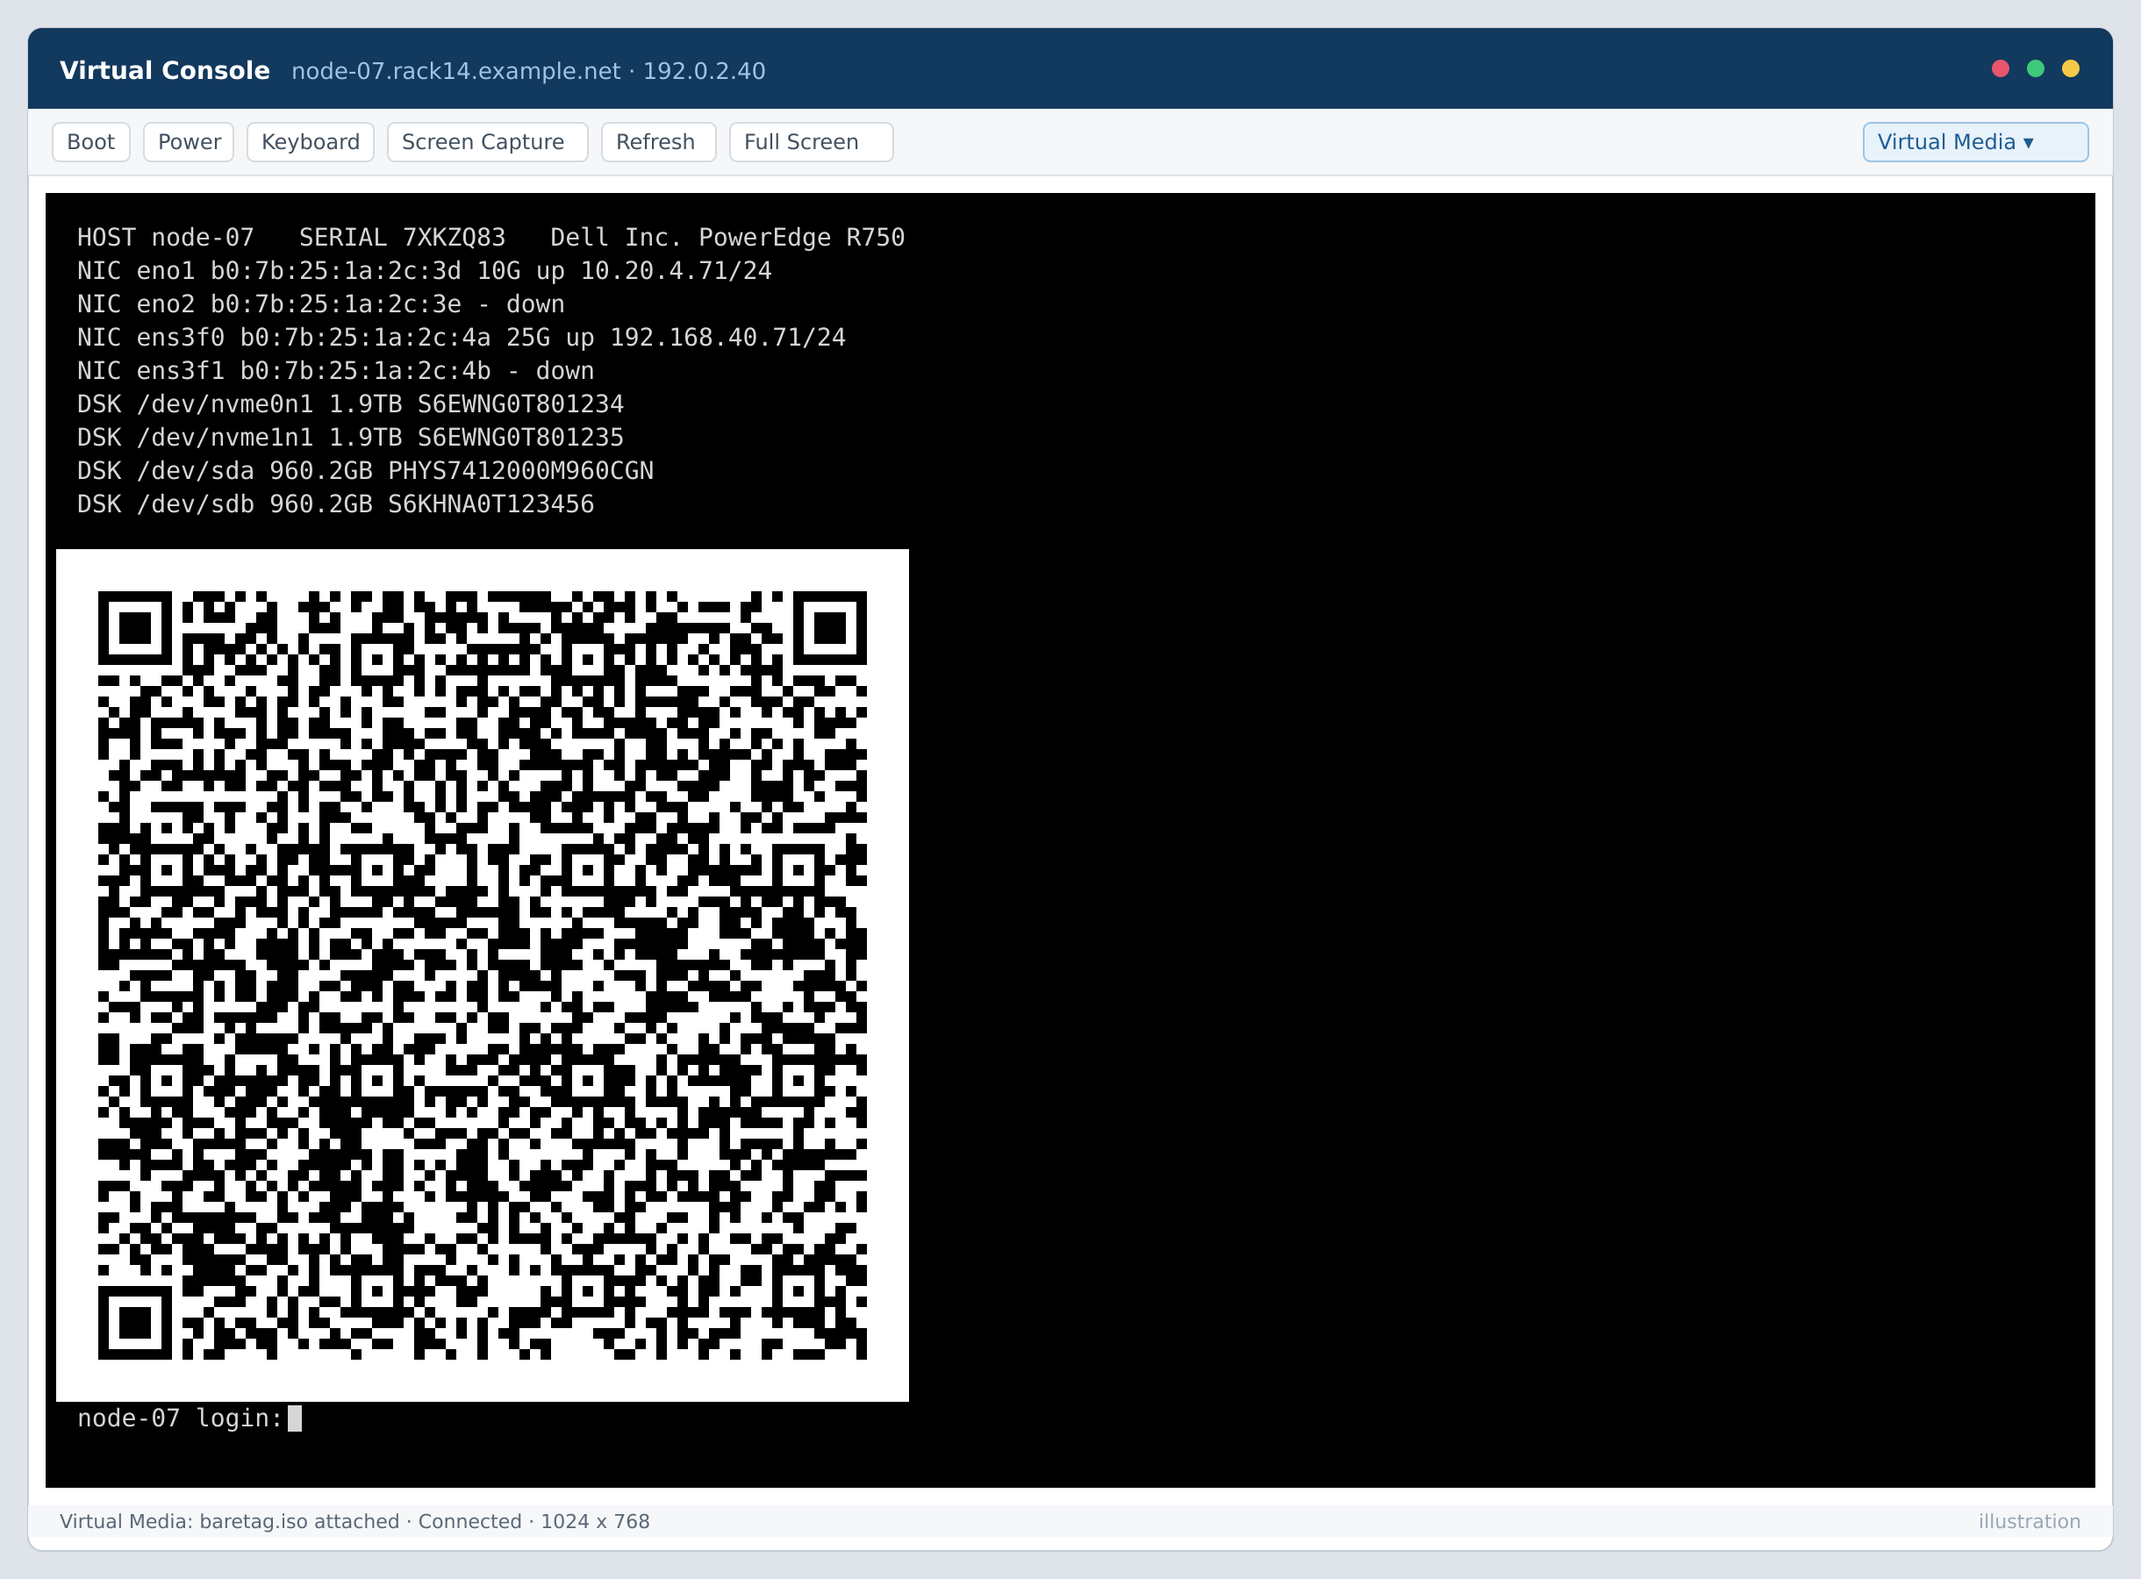
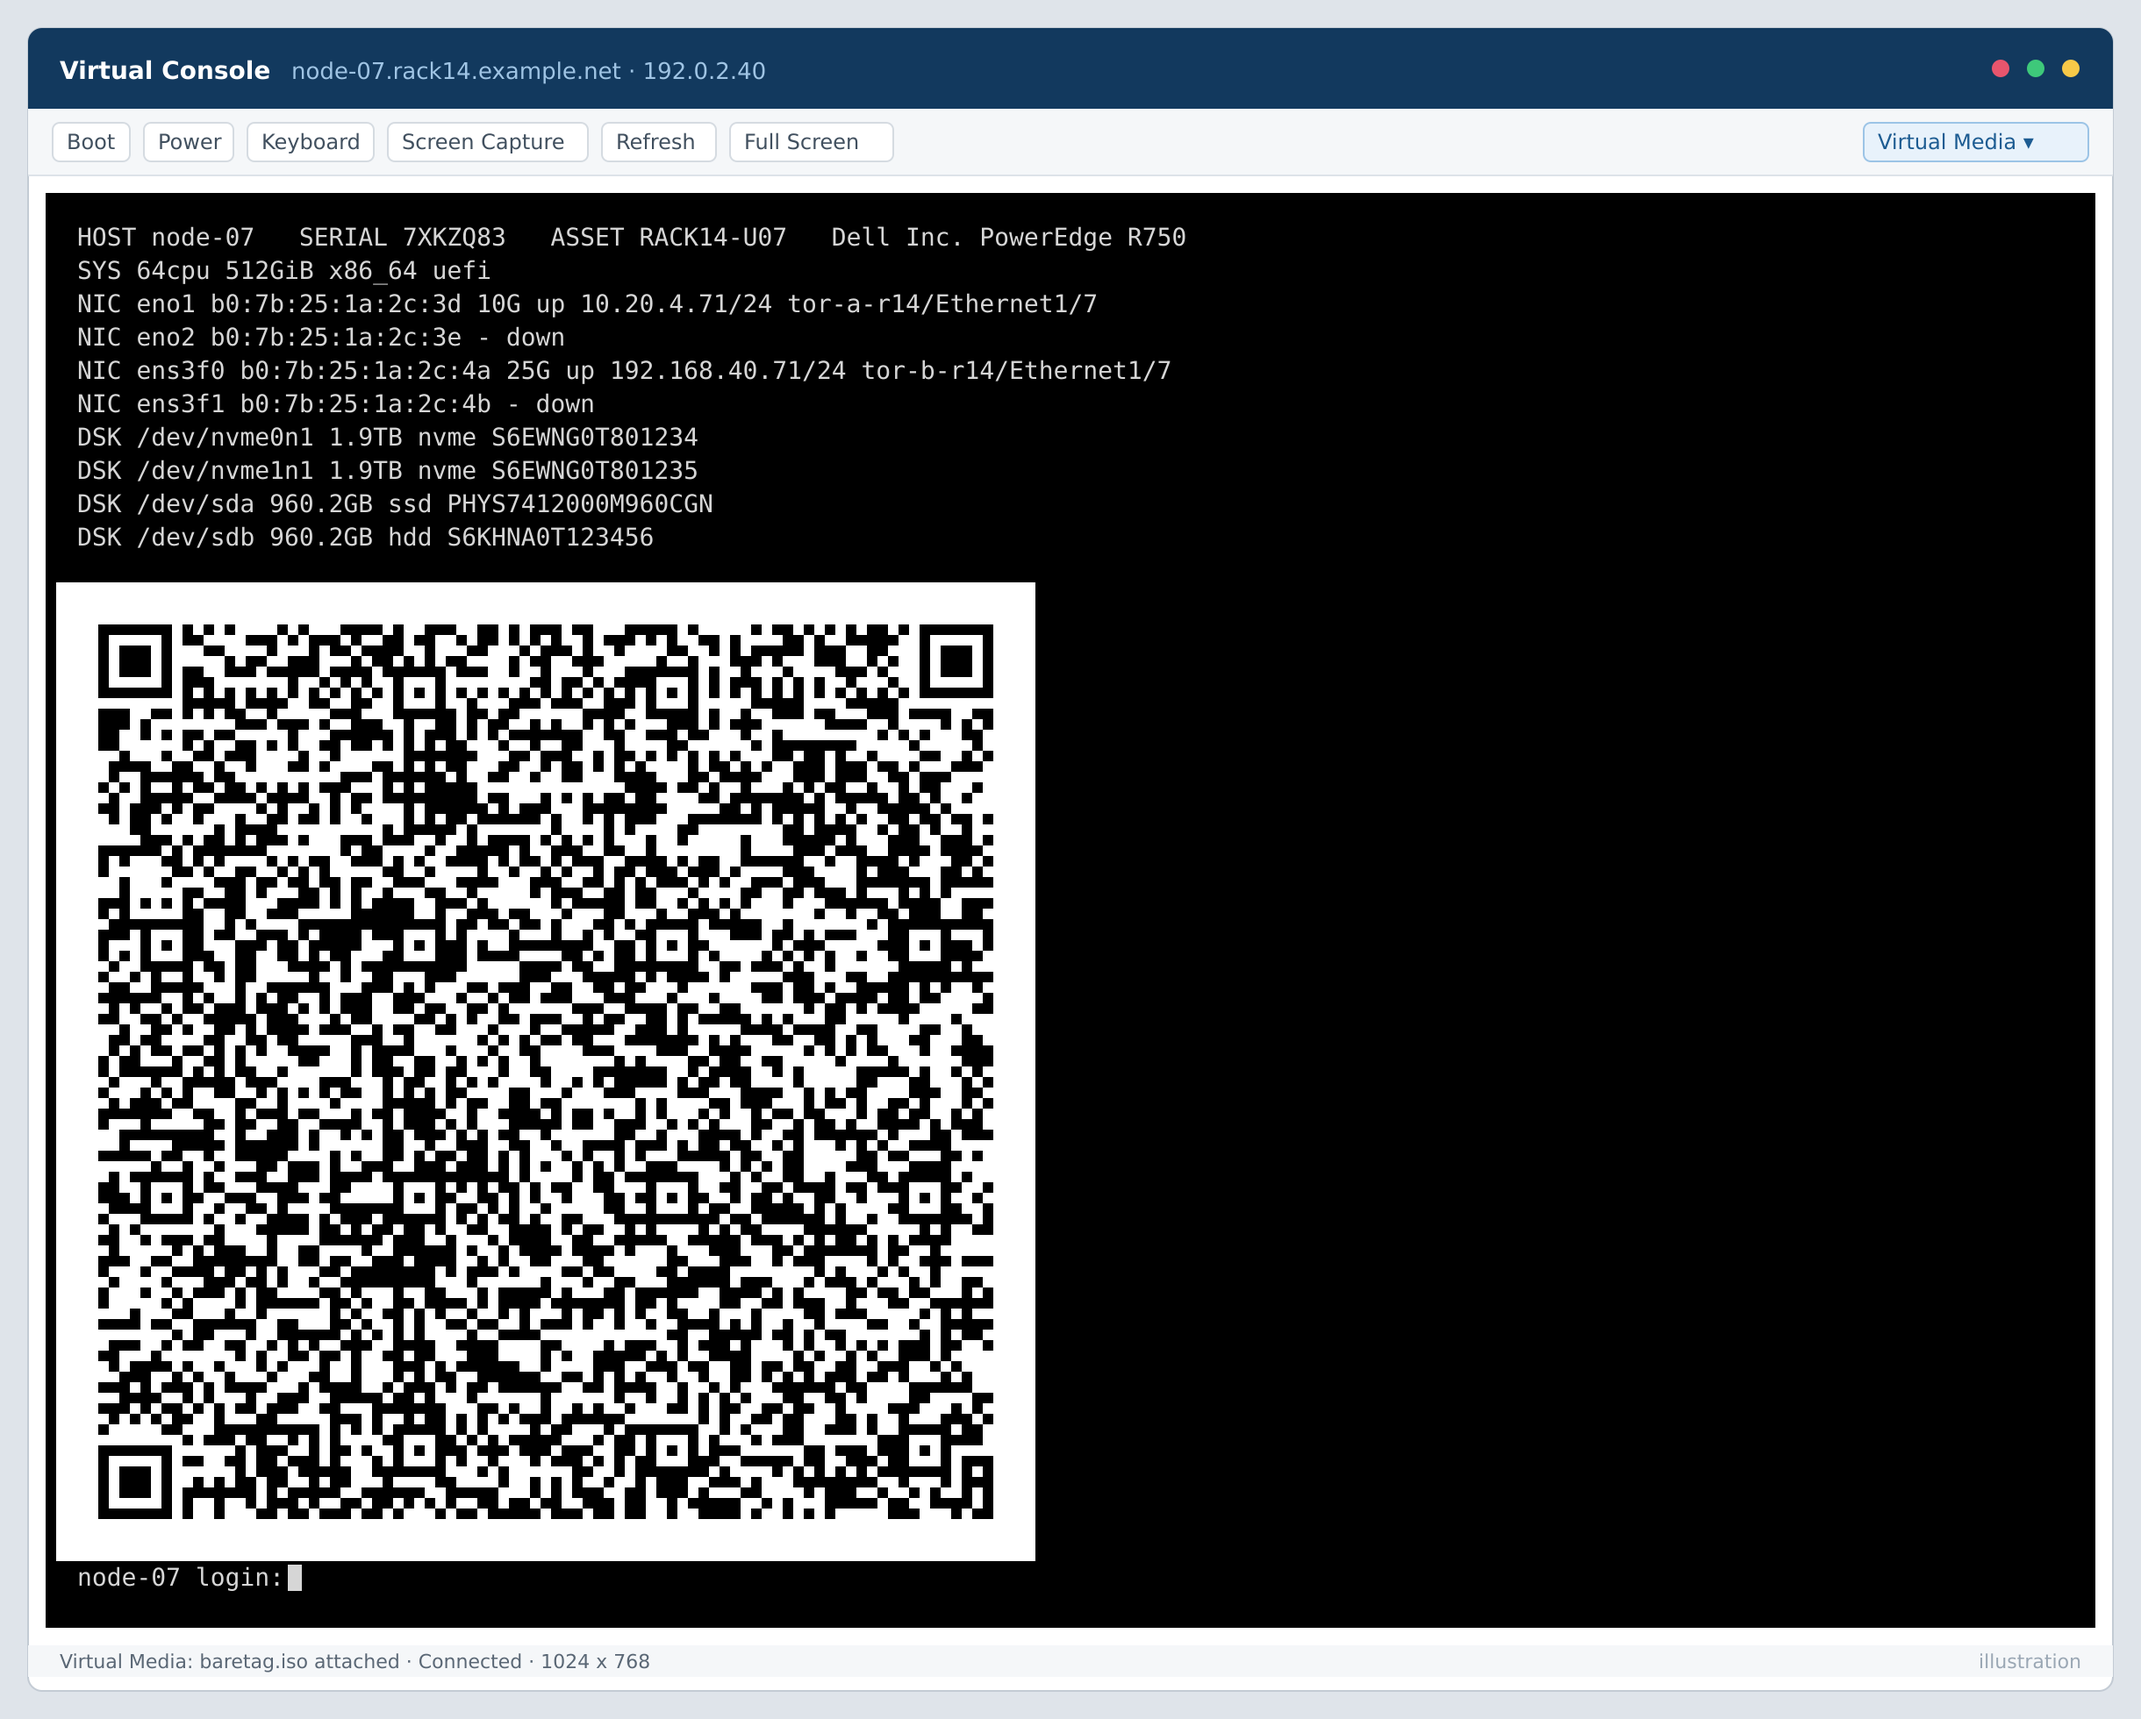
docs: describe the new fields and redraw the illustration
The illustration is regenerated from the real renderer, so it now shows the
asset tag, the platform summary line, drive types and the switch and port on
each live link. Its QR code still scans and still decodes back to the example
machine.

Changed region(s): [[0.0, 0.0311, 0.9967, 0.9956]]

diff --git a/cmd/mockup/main.go b/cmd/mockup/main.go
@@ -17,24 +17,40 @@ import (
 
 func demo() *inventory.Inventory {
 	return &inventory.Inventory{
-		Hostname:  "node-07",
-		Serial:    "7XKZQ83",
-		SerialSrc: "chassis_serial",
-		Vendor:    "Dell Inc.",
-		Product:   "PowerEdge R750",
-		UUID:      "4c4c4544-0058-4b10-8051-b4c04f513833",
-		Collected: "2026-09-11T20:31:00Z",
+		Hostname:    "node-07",
+		Serial:      "7XKZQ83",
+		SerialSrc:   "chassis_serial",
+		AssetTag:    "RACK14-U07",
+		Vendor:      "Dell Inc.",
+		Product:     "PowerEdge R750",
+		UUID:        "4c4c4544-0058-4b10-8051-b4c04f513833",
+		Firmware:    "uefi",
+		BIOSVersion: "2.15.1",
+		Arch:        "x86_64",
+		CPUs:        64,
+		CPUModel:    "Intel Xeon Gold 6338",
+		MemoryBytes: 549755813888,
+		TPM:         "2.0",
+		Collected:   "2026-09-11T20:31:00Z",
 		NICs: []inventory.NIC{
-			{Name: "eno1", MAC: "b0:7b:25:1a:2c:3d", Speed: 10000, State: "up", IPs: []string{"10.20.4.71/24"}},
-			{Name: "eno2", MAC: "b0:7b:25:1a:2c:3e", State: "down"},
-			{Name: "ens3f0", MAC: "b0:7b:25:1a:2c:4a", Speed: 25000, State: "up", IPs: []string{"192.168.40.71/24"}},
-			{Name: "ens3f1", MAC: "b0:7b:25:1a:2c:4b", State: "down"},
+			{Name: "eno1", MAC: "b0:7b:25:1a:2c:3d", Speed: 10000, State: "up",
+				IPs: []string{"10.20.4.71/24"}, PCI: "0000:19:00.0",
+				Switch: "tor-a-r14", Port: "Ethernet1/7"},
+			{Name: "eno2", MAC: "b0:7b:25:1a:2c:3e", State: "down", PCI: "0000:19:00.1"},
+			{Name: "ens3f0", MAC: "b0:7b:25:1a:2c:4a", Speed: 25000, State: "up",
+				IPs: []string{"192.168.40.71/24"}, PCI: "0000:5e:00.0",
+				Switch: "tor-b-r14", Port: "Ethernet1/7"},
+			{Name: "ens3f1", MAC: "b0:7b:25:1a:2c:4b", State: "down", PCI: "0000:5e:00.1"},
 		},
 		Disks: []inventory.Disk{
-			{Path: "/dev/nvme0n1", Size: 1920383410176, Serial: "S6EWNG0T801234", Model: "SAMSUNG MZQL21T9HCJR-00A07"},
-			{Path: "/dev/nvme1n1", Size: 1920383410176, Serial: "S6EWNG0T801235", Model: "SAMSUNG MZQL21T9HCJR-00A07"},
-			{Path: "/dev/sda", Size: 960197124096, Serial: "PHYS7412000M960CGN", Model: "DELL PERC H755 Front"},
-			{Path: "/dev/sdb", Size: 960197124096, Serial: "S6KHNA0T123456", Model: "SAMSUNG MZ7L3960HCJR"},
+			{Path: "/dev/nvme0n1", Size: 1920383410176, Serial: "S6EWNG0T801234",
+				Model: "SAMSUNG MZQL21T9HCJR-00A07", Type: "nvme", WWN: "eui.3634473052801234"},
+			{Path: "/dev/nvme1n1", Size: 1920383410176, Serial: "S6EWNG0T801235",
+				Model: "SAMSUNG MZQL21T9HCJR-00A07", Type: "nvme", WWN: "eui.3634473052801235"},
+			{Path: "/dev/sda", Size: 960197124096, Serial: "PHYS7412000M960CGN",
+				Model: "DELL PERC H755 Front", Type: "ssd", WWN: "naa.6d0946606b1b2c00"},
+			{Path: "/dev/sdb", Size: 960197124096, Serial: "S6KHNA0T123456",
+				Model: "SAMSUNG MZ7L3960HCJR", Type: "hdd", WWN: "0x5002538f31a1b2c3"},
 		},
 	}
 }

diff --git a/cmd/mockup/svg.go b/cmd/mockup/svg.go
@@ -7,7 +7,7 @@ import (
 
 const (
 	canvasW = 1220
-	canvasH = 900
+	canvasH = 980
 
 	winX, winY = 16, 16
 	winW, winH = canvasW - 2*winX, canvasH - 2*winY

diff --git a/README.md b/README.md
@@ -15,6 +15,8 @@ at the rack or through a remote console.
 - **Bootable workflow:** add Baretag to a CoreOS live ISO with one command.
 - **Portable results:** export JSON or decode a scanned QR payload on your
   workstation.
+- **Cabling discovery:** learn which switch and which port every live
+  interface is connected to, from the switch's own LLDP advertisement.
 - **Adaptive display:** fit the report and QR codes to the available console,
   using compression and multiple symbols when needed.
 - **Built-in ISO verification:** check the embedded payload, image structures,
@@ -119,9 +121,20 @@ interface list.
 
 | Category | Fields |
 | --- | --- |
-| Machine | Hostname, serial number and its source, vendor, product, UUID, collection timestamp. |
-| Network interfaces | Name, MAC address, link speed, link state, and assigned IP addresses. |
-| Disks | Device path, capacity in bytes, serial number, and model. |
+| Machine | Hostname, serial number and its source, asset tag, vendor, product, UUID, collection timestamp. |
+| Platform | Logical CPU count and model, installed memory, architecture, firmware mode (UEFI or legacy BIOS), BIOS version, TPM version, and the hypervisor when the machine is virtual. |
+| Network interfaces | Name, MAC address, link speed, link state, assigned IP addresses, PCI slot, and the neighbouring switch and port. |
+| Disks | Device path, capacity in bytes, serial number, model, drive type (NVMe, SSD or HDD), and world-wide name. |
+
+The platform fields come from `/proc/cpuinfo`, `/proc/meminfo`,
+`/sys/devices/system/cpu`, `/sys/firmware/efi` and `/sys/class/tpm`. Asset tag
+and BIOS version come from `/sys/class/dmi/id`. A machine is reported as
+virtual when its DMI vendor or product names a hypervisor.
+
+Drive type comes from `/sys/block/*/queue/rotational`, with NVMe reported
+separately because installers select on it. The world-wide name is read from
+`wwid` attributes or the `wwn-` link udev creates; it is not a serial number,
+but it is the most stable way to name a disk.
 
 Machine identity comes from `/sys/class/dmi/id`. Baretag chooses the first
 meaningful chassis, product, or board serial, in that order, and ignores firmware
@@ -141,6 +154,26 @@ are excluded by default.
 
 Use `--all-nics` or `--all-disks` to broaden collection, and `--no-udev` to disable
 the external `udevadm` fallback. Loopback interfaces remain excluded.
+
+### Neighbouring switches
+
+Which switch port a machine is cabled to is the one fact that cannot be read
+out of the machine itself, and it is what turns a rack of identical boxes into
+something you can verify without tracing cables. Baretag learns it by listening
+for the advertisement the switch sends down each live link.
+
+This takes time. Switches advertise every thirty seconds by default, so a
+shorter wait usually hears nothing:
+
+```sh
+sudo ./dist/baretag-linux-amd64 --lldp 35s
+```
+
+The boot service uses `--lldp 35s`, which adds that long to the boot before the
+report appears. Interfaces that are down are never listened on. An interface
+that stays absent from the results is unplugged, facing a switch with LLDP
+disabled, or simply was not advertised to in time; none of these is an error
+and none of them stops the rest of the report.
 
 ## QR payloads
 
@@ -290,6 +323,7 @@ baretag verify-iso <iso>           Verify an existing baked image
 | `--all-nics` | Include virtual interfaces normally filtered out. |
 | `--all-disks` | Include block devices normally filtered out. |
 | `--no-udev` | Disable the `udevadm` fallback for disk identifiers. |
+| `--lldp <duration>` | Listen this long on each live link for the neighbouring switch. Off by default. |
 | `--root <path>` | Read filesystem attributes from a captured tree. |
 
 ### Rendering
